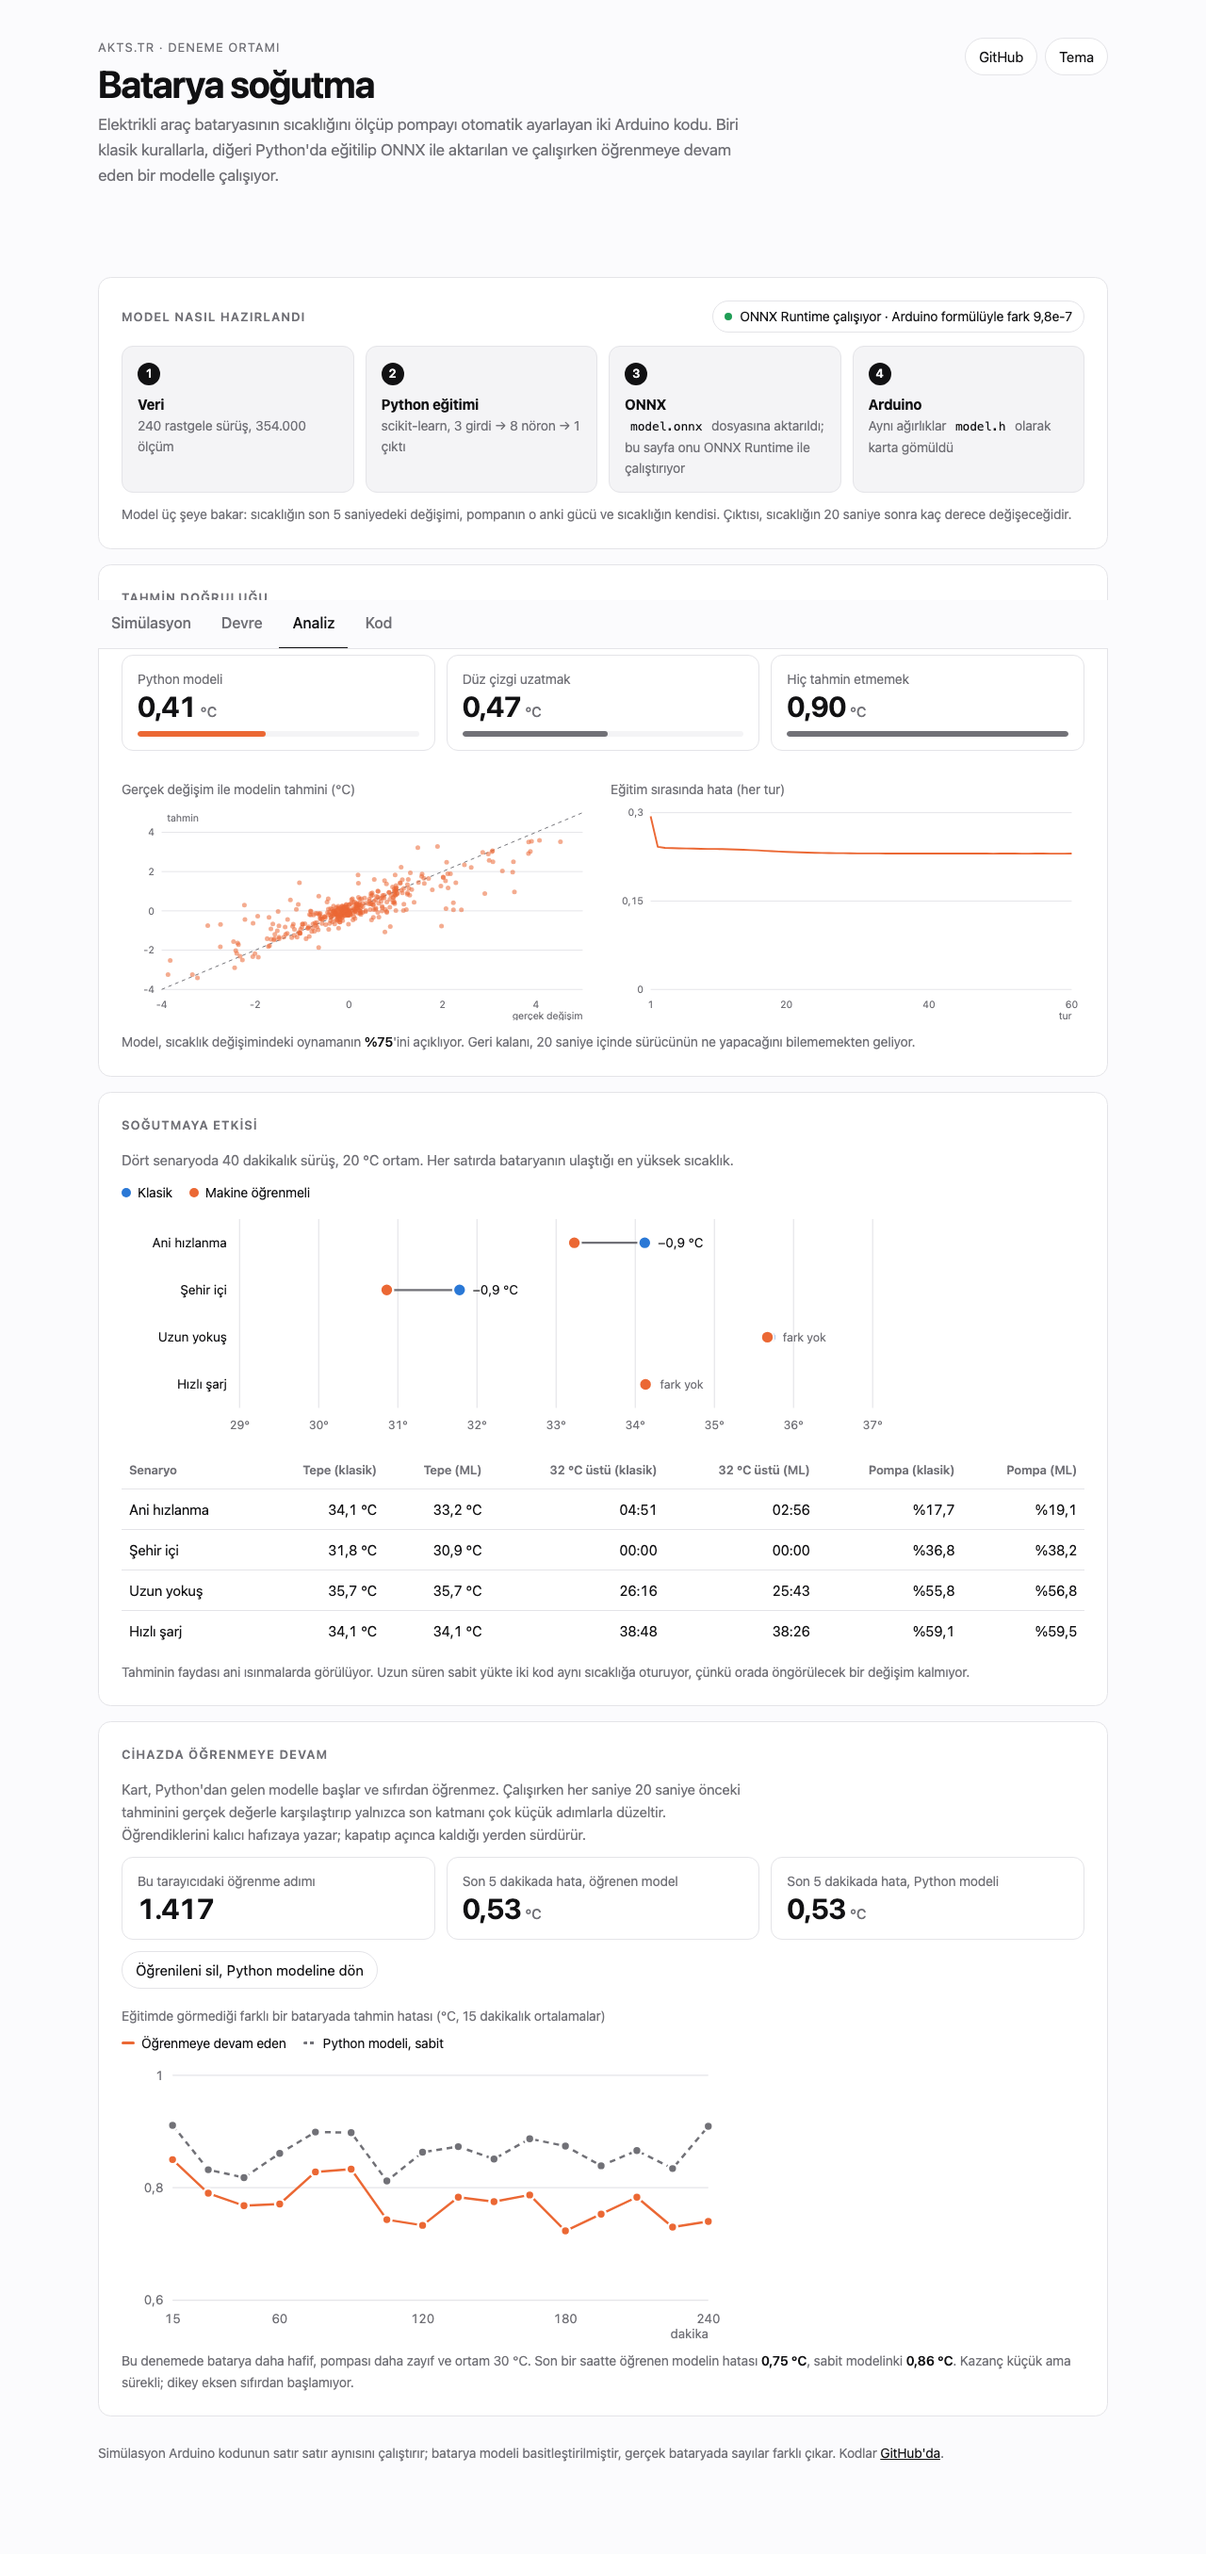
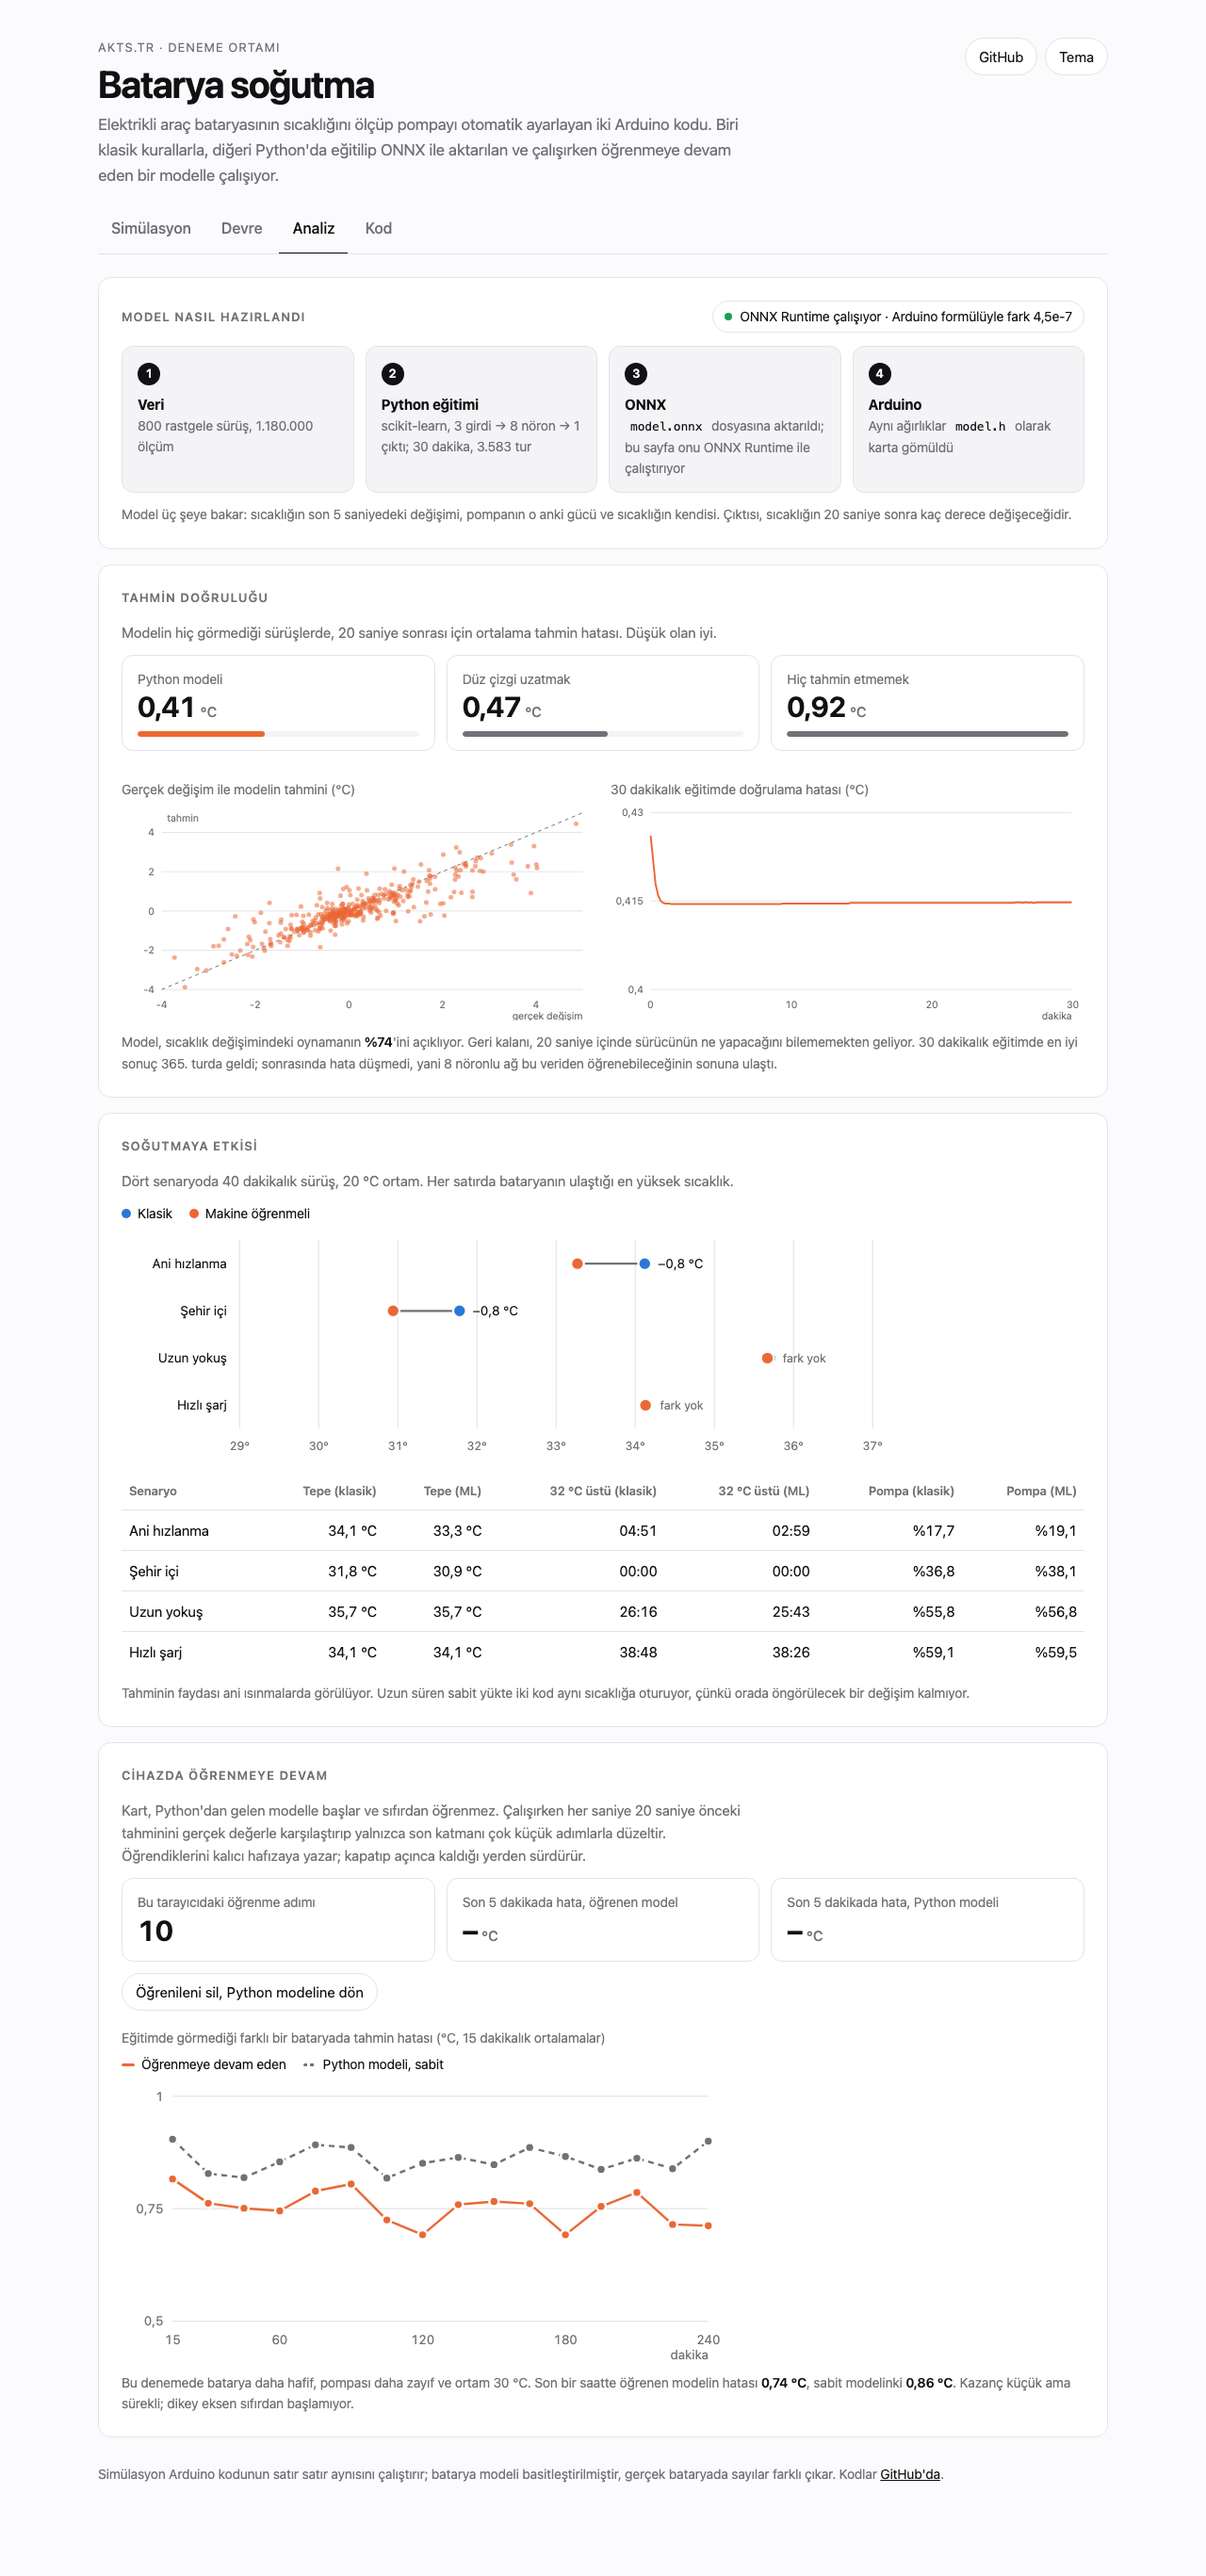
Train the model for 30 minutes on 800 drives and show training stats

diff --git a/site/index.html b/site/index.html
@@ -508,7 +508,7 @@ footer a { color: var(--fg); }
       </div>
       <div class="adimlar">
         <div class="adim"><b>Veri</b><span id="adimVeri">Simülasyonda rastgele sürüşler</span></div>
-        <div class="adim"><b>Python eğitimi</b><span>scikit-learn, 3 girdi → 8 nöron → 1 çıktı</span></div>
+        <div class="adim"><b>Python eğitimi</b><span id="adimEgitim">scikit-learn, 3 girdi → 8 nöron → 1 çıktı</span></div>
         <div class="adim"><b>ONNX</b><span><code>model.onnx</code> dosyasına aktarıldı; bu sayfa onu ONNX Runtime ile çalıştırıyor</span></div>
         <div class="adim"><b>Arduino</b><span>Aynı ağırlıklar <code>model.h</code> olarak karta gömüldü</span></div>
       </div>
@@ -525,7 +525,7 @@ footer a { color: var(--fg); }
           <div id="sacilimGrafik"></div>
         </div>
         <div>
-          <div class="grafik-bas">Eğitim sırasında hata (her tur)</div>
+          <div class="grafik-bas">30 dakikalık eğitimde doğrulama hatası (°C)</div>
           <div id="kayipGrafik"></div>
         </div>
       </div>
@@ -599,8 +599,8 @@ footer a { color: var(--fg); }
   const $ = (kimlik) => document.getElementById(kimlik);
   const pencere = 600;
   const azHareket = matchMedia("(prefers-reduced-motion: reduce)").matches;
-  const model = await fetch("model.json?v=2").then((y) => y.json());
-  const analiz = await fetch("analiz.json?v=2").then((y) => y.json());
+  const model = await fetch("model.json?v=4").then((y) => y.json());
+  const analiz = await fetch("analiz.json?v=4").then((y) => y.json());
   const modelImzasi = String(model.cikisSabiti) + "|" + String(model.gizliSabit[0]);
 
   const senaryolar = {
@@ -1064,7 +1064,8 @@ footer a { color: var(--fg); }
 
   function analizCiz() {
     const e = model.egitim;
-    $("adimVeri").textContent = e.bolumSayisi + " rastgele sürüş, " + (e.egitimSatiri + e.testSatiri).toLocaleString("tr-TR") + " ölçüm";
+    $("adimVeri").textContent = e.bolumSayisi + " rastgele sürüş, " + (e.egitimSatiri + e.dogrulamaSatiri + e.testSatiri).toLocaleString("tr-TR") + " ölçüm";
+    $("adimEgitim").textContent = "scikit-learn, 3 girdi → 8 nöron → 1 çıktı; " + sayi(e.egitimSuresiDakika, 0) + " dakika, " + e.turSayisi.toLocaleString("tr-TR") + " tur";
 
     const enBuyuk = Math.max(e.maeModel, e.maeSabit, e.maeDuzCizgi);
     const karolar = [
@@ -1075,7 +1076,8 @@ footer a { color: var(--fg); }
     $("maeKarolar").innerHTML = karolar.map((k) =>
       '<div class="karo' + (k.one ? " one" : "") + '"><div class="ad">' + k.ad + '</div><div class="deger">' + sayi(k.deger, 2) + "<small> °C</small></div>" +
       '<div class="iz"><i style="width:' + ((k.deger / enBuyuk) * 100).toFixed(1) + '%"></i></div></div>').join("");
-    $("dogrulukNot").innerHTML = "Model, sıcaklık değişimindeki oynamanın <b>%" + Math.round(e.r2 * 100) + "</b>'ini açıklıyor. Geri kalanı, 20 saniye içinde sürücünün ne yapacağını bilememekten geliyor.";
+    $("dogrulukNot").innerHTML = "Model, sıcaklık değişimindeki oynamanın <b>%" + Math.round(e.r2 * 100) + "</b>'ini açıklıyor. Geri kalanı, 20 saniye içinde sürücünün ne yapacağını bilememekten geliyor. " +
+      sayi(e.egitimSuresiDakika, 0) + " dakikalık eğitimde en iyi sonuç " + e.enIyiTur.toLocaleString("tr-TR") + ". turda geldi; sonrasında hata düşmedi, yani 8 nöronlu ağ bu veriden öğrenebileceğinin sonuna ulaştı.";
 
     {
       const g = 520;
@@ -1101,11 +1103,13 @@ footer a { color: var(--fg); }
       $("sacilimGrafik").innerHTML = '<svg class="svg-grafik" viewBox="0 0 ' + g + " " + y + '" role="img" aria-label="Gerçek ve tahmin edilen sıcaklık değişimi saçılım grafiği">' + ic + "</svg>";
     }
 
-    const kayip = e.kayipEgrisi.map((v, i) => [i + 1, v]);
-    const kayipCok = Math.ceil(Math.max(...e.kayipEgrisi) * 10) / 10;
+    const kayip = e.kayipEgrisi;
+    const kayipDegerleri = kayip.map((n) => n[1]);
+    const kayipAz = Math.floor(Math.min(...kayipDegerleri) * 100) / 100 - 0.01;
+    const kayipCok = Math.ceil(Math.max(...kayipDegerleri) * 100) / 100;
     svgCizgi($("kayipGrafik"), {
-      baslik: "Eğitim kaybı eğrisi", xAd: "tur", xBirim: "tur", yAz: 0, yCok: kayipCok,
-      yIzgara: [0, kayipCok / 2, kayipCok].map((v) => +v.toFixed(2)), xIzgara: [1, 20, 40, 60].filter((v) => v <= kayip.length),
+      baslik: "Eğitim boyunca doğrulama hatası", xAd: "dakika", xBirim: "dk", yAz: kayipAz, yCok: kayipCok,
+      yIzgara: [kayipAz, (kayipAz + kayipCok) / 2, kayipCok].map((v) => +v.toFixed(3)), xIzgara: [0, 10, 20, 30].filter((v) => v <= Math.ceil(kayip[kayip.length - 1][0])),
       seriler: [{ ad: "kayıp", renk: "var(--seri-ml)", noktalar: kayip }]
     });
 
@@ -1166,7 +1170,7 @@ footer a { color: var(--fg); }
         wasm: new URL("ort/ort-wasm-simd-threaded.wasm", location.href).href
       };
       ort.env.wasm.numThreads = 1;
-      const oturum = await ort.InferenceSession.create("model.onnx?v=2");
+      const oturum = await ort.InferenceSession.create("model.onnx?v=4");
       const deneme = [];
       for (let i = 0; i < 40; i++) deneme.push([Math.sin(i) * 2, (i % 5) / 4, Math.cos(i * 0.7)]);
       const tensor = new ort.Tensor("float32", Float32Array.from(deneme.flat()), [deneme.length, 3]);
@@ -1201,7 +1205,7 @@ footer a { color: var(--fg); }
     if (!kodOnbellek[dosya]) {
       $("kodKap").textContent = "Yükleniyor…";
       try {
-        const yanit = await fetch("kod/" + dosya + "?v=2");
+        const yanit = await fetch("kod/" + dosya + "?v=4");
         if (!yanit.ok) throw new Error(String(yanit.status));
         kodOnbellek[dosya] = await yanit.text();
       } catch (hata) {

diff --git a/egitim/veri_uret.js b/egitim/veri_uret.js
@@ -14,7 +14,7 @@ function aralik(a, b) {
 }
 
 const bosModel = { cikisAgirlik: [], cikisSabiti: 0 };
-const bolumSayisi = 240;
+const bolumSayisi = 800;
 const bolumSuresi = 1500;
 const satirlar = ["bolum,saniye,egim,pompa,sicaklikOlcekli,sicaklik"];
 

diff --git a/egitim/egit.py b/egitim/egit.py
@@ -1,4 +1,7 @@
+import copy
 import json
+import os
+import time
 from pathlib import Path
 
 import numpy as np
@@ -11,6 +14,7 @@ from sklearn.neural_network import MLPRegressor
 KOK = Path(__file__).resolve().parent.parent
 TAHMIN_SURESI = 20
 GIZLI_SAYISI = 8
+EGITIM_SURESI = float(os.environ.get("EGITIM_SURESI", "1800"))
 
 veri = np.loadtxt(KOK / "egitim" / "veri.csv", delimiter=",", skiprows=1)
 bolum, saniye = veri[:, 0].astype(int), veri[:, 1].astype(int)
@@ -26,20 +30,52 @@ y = (gelecek - sicaklik)[gecerli].astype(np.float32)
 bolumler = bolum[gecerli]
 
 test_baslangic = int(bolumler.max() * 0.8)
-egitim, test = bolumler < test_baslangic, bolumler >= test_baslangic
+dogrulama_baslangic = int(bolumler.max() * 0.7)
+egitim = bolumler < dogrulama_baslangic
+dogrulama = (bolumler >= dogrulama_baslangic) & (bolumler < test_baslangic)
+test = bolumler >= test_baslangic
 
 model = MLPRegressor(
     hidden_layer_sizes=(GIZLI_SAYISI,),
     activation="relu",
     solver="adam",
     learning_rate_init=0.003,
-    batch_size=512,
-    max_iter=60,
-    tol=1e-6,
-    n_iter_no_change=60,
+    batch_size=1024,
     random_state=7,
 )
-model.fit(X[egitim], y[egitim])
+X_egitim, y_egitim = X[egitim], y[egitim]
+X_dogrulama, y_dogrulama = X[dogrulama], y[dogrulama]
+
+baslangic = time.time()
+en_iyi_hata = float("inf")
+en_iyi_agirlik = None
+en_iyi_tur = 0
+sabir = 0
+tur = 0
+ogrenme_hizi = 0.003
+egri = []
+while time.time() - baslangic < EGITIM_SURESI:
+    model.partial_fit(X_egitim, y_egitim)
+    tur += 1
+    hata = float(mean_absolute_error(y_dogrulama, model.predict(X_dogrulama)))
+    gecen = time.time() - baslangic
+    egri.append((gecen / 60, hata, float(model.loss_)))
+    if hata < en_iyi_hata - 1e-5:
+        en_iyi_hata = hata
+        en_iyi_agirlik = (copy.deepcopy(model.coefs_), copy.deepcopy(model.intercepts_))
+        en_iyi_tur = tur
+        sabir = 0
+    else:
+        sabir += 1
+        if sabir >= 40 and ogrenme_hizi > 1e-5:
+            ogrenme_hizi /= 2
+            model._optimizer.learning_rate = ogrenme_hizi
+            sabir = 0
+    if tur % 25 == 0:
+        print(f"{gecen / 60:5.1f} dk | tur {tur} | dogrulama {hata:.4f} | en iyi {en_iyi_hata:.4f} (tur {en_iyi_tur}) | hiz {ogrenme_hizi:.2e}", flush=True)
+
+model.coefs_, model.intercepts_ = en_iyi_agirlik
+print(f"bitti: {tur} tur, en iyi tur {en_iyi_tur}, dogrulama {en_iyi_hata:.4f}", flush=True)
 
 def temizle(d):
     d = d.astype(np.float32)
@@ -133,7 +169,11 @@ cikti = {
         "testSatiri": int(test.sum()),
         "bolumSayisi": int(bolumler.max() + 1),
         "gizliKareOrtalamasi": round(float(np.mean(np.sum(np.maximum(X[test] @ gizli_agirlik.T + gizli_sabit, 0) ** 2, axis=1))), 3),
-        "kayipEgrisi": [round(float(v), 5) for v in model.loss_curve_],
+        "egitimSuresiDakika": round(EGITIM_SURESI / 60, 1),
+        "turSayisi": tur,
+        "enIyiTur": en_iyi_tur,
+        "dogrulamaSatiri": int(dogrulama.sum()),
+        "kayipEgrisi": [[round(d, 2), round(h, 4)] for d, h, _ in egri[:: max(1, len(egri) // 180)]],
         "maeModel": round(mae_model, 4),
         "maeSabit": round(mae_sabit, 4),
         "maeDuzCizgi": round(mae_duz, 4),

diff --git a/ml/model.h b/ml/model.h
@@ -2,18 +2,18 @@ const int girdiSayisi = 3;
 const int gizliSayisi = 8;
 
 const float gizliAgirlik[gizliSayisi][girdiSayisi] = {
-  {-1.45928812, 1.37612391, -0.227982089},
+  {-0.491951406, -0.876960158, 1.38190794},
   {0, 0, 0},
-  {0.320225, 0.808751464, 0.502426624},
-  {-0.517737329, 0.197297633, -0.239072651},
-  {1.18281281, 1.87506843, 0.11569085},
-  {0.374861568, 1.65913343, 0.478341788},
-  {1.34089947, -3.64776945, -0.00862930808},
-  {-1.00722337, 1.31857717, 0.125514582},
+  {0.118570104, 2.3279264, 0.135486737},
+  {-0.286535025, 1.73099244, -0.987181723},
+  {1.66064894, 2.35443449, 0.163646996},
+  {0.636928797, 2.32048416, 0.63637948},
+  {2.27391744, -4.95697308, 0.0279849507},
+  {-1.8471663, 2.20132303, -0.423833191},
 };
 
-const float gizliSabit[gizliSayisi] = {0.193241954, -0.541844666, -0.049545411, 0.883011997, 0.0526043363, -2.57860374, -0.0147772701, 0.722246826};
+const float gizliSabit[gizliSayisi] = {-1.70811987, -0.541844666, -0.0228989553, 0.691644192, 0.0879882425, -3.53240252, -0.0340054967, 0.361986756};
 
-const float baslangicCikisAgirlik[gizliSayisi] = {-0.870875001, 0, -0.366945356, 0.768619299, 1.2567327, -7.26978874, 1.24816561, -0.8765499};
+const float baslangicCikisAgirlik[gizliSayisi] = {-0.550883353, 0, -0.589724362, 0.568827033, 0.972710252, -5.16873169, 0.782008946, -0.917721152};
 
-const float baslangicCikisSabiti = 0.185002625;
+const float baslangicCikisSabiti = -0.0871599764;

diff --git a/README.md b/README.md
@@ -43,8 +43,8 @@ simülasyon verisi  →  Python eğitimi  →  model.onnx  →  site (ONNX Runti
    veri_uret.js          egit.py       ↘  model.h    →  Arduino
 ```
 
-1. `egitim/veri_uret.js` simülasyonda 240 rastgele sürüş üretir (354 bin ölçüm).
-2. `egitim/egit.py` scikit-learn ile 3 girdi → 8 nöron → 1 çıktı boyutunda bir ağ eğitir.
+1. `egitim/veri_uret.js` simülasyonda 800 rastgele sürüş üretir (1,2 milyon ölçüm).
+2. `egitim/egit.py` scikit-learn ile 3 girdi → 8 nöron → 1 çıktı boyutunda bir ağı 30 dakika eğitir; ayrı sürüşlerden oluşan doğrulama kümesinde en iyi ağırlıkları saklar.
 3. Aynı betik ağı `site/model.onnx` dosyasına aktarır ve ONNX Runtime çıktısının elle hesapla aynı olduğunu denetler.
 4. Ağırlıklar `ml/model.h` olarak Arduino koduna gömülür. Deneme ortamı ise `model.onnx` dosyasını tarayıcıda ONNX Runtime ile çalıştırır.
 
@@ -62,20 +62,22 @@ Kart sıfırdan öğrenmez, Python'dan gelen modelle başlar. Çalışırken her
 |---|---|
 | Python modeli | 0,41 °C |
 | Düz çizgi uzatmak | 0,47 °C |
-| Hiç tahmin etmemek | 0,90 °C |
+| Hiç tahmin etmemek | 0,92 °C |
+
+30 dakikalık eğitim 3583 tur sürdü ama en iyi sonuç 365. turda (yaklaşık 3. dakikada) geldi; sonrasında hata düşmedi. Aynı test verisinde ilk modelin hatası 0,418 °C, 30 dakika eğitilenin 0,414 °C. 8 nöronlu ağ bu veriden öğrenebileceğinin sonuna ulaştı; kalan hata, 20 saniye içinde sürücünün ne yapacağını bilememekten geliyor.
 
 **Soğutmaya etkisi** (40 dakikalık sürüş, 20 °C ortam, en yüksek batarya sıcaklığı):
 
 | Senaryo | Klasik | Makine öğrenmeli |
 |---|---|---|
-| Ani hızlanma | 34,1 °C | 33,2 °C |
+| Ani hızlanma | 34,1 °C | 33,3 °C |
 | Şehir içi | 31,8 °C | 30,9 °C |
 | Uzun yokuş | 35,7 °C | 35,7 °C |
 | Hızlı şarj | 34,1 °C | 34,1 °C |
 
 Tahminin faydası ani ısınmalarda görülür. Uzun süren sabit yükte iki sürüm aynı sıcaklığa oturur, çünkü orada öngörülecek bir değişim kalmaz.
 
-**Cihazda öğrenme:** eğitimde görmediği farklı bir bataryada dört saatin sonunda tahmin hatası 0,86 °C'den 0,75 °C'ye iner. Kazanç küçük ama süreklidir.
+**Cihazda öğrenme:** eğitimde görmediği farklı bir bataryada son bir saatte tahmin hatası Python modelinde 0,86 °C, öğrenmeye devam edende 0,74 °C. Kazanç küçük ama süreklidir.
 
 Batarya modeli basitleştirilmiştir; gerçek bir bataryada sayılar farklı çıkar.
 
